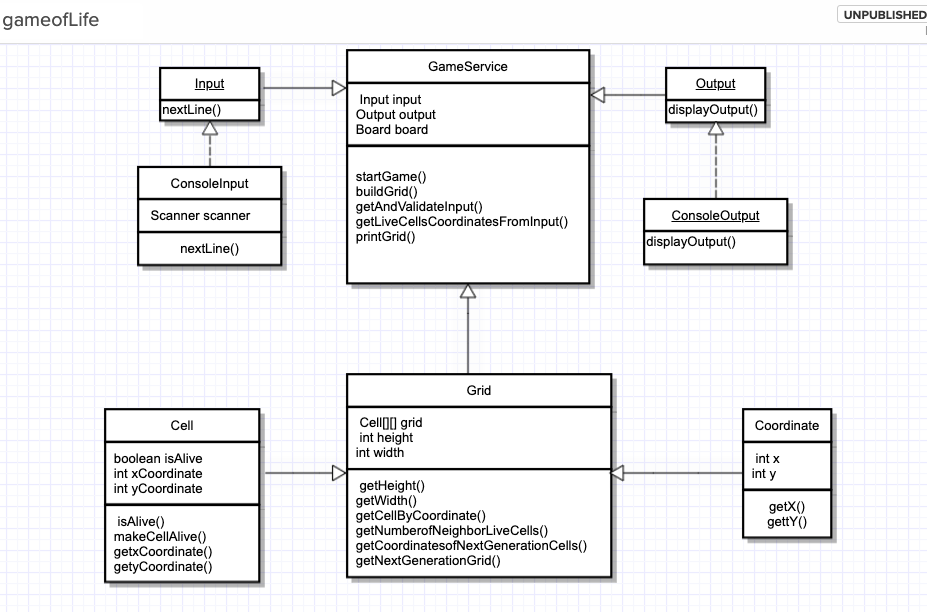
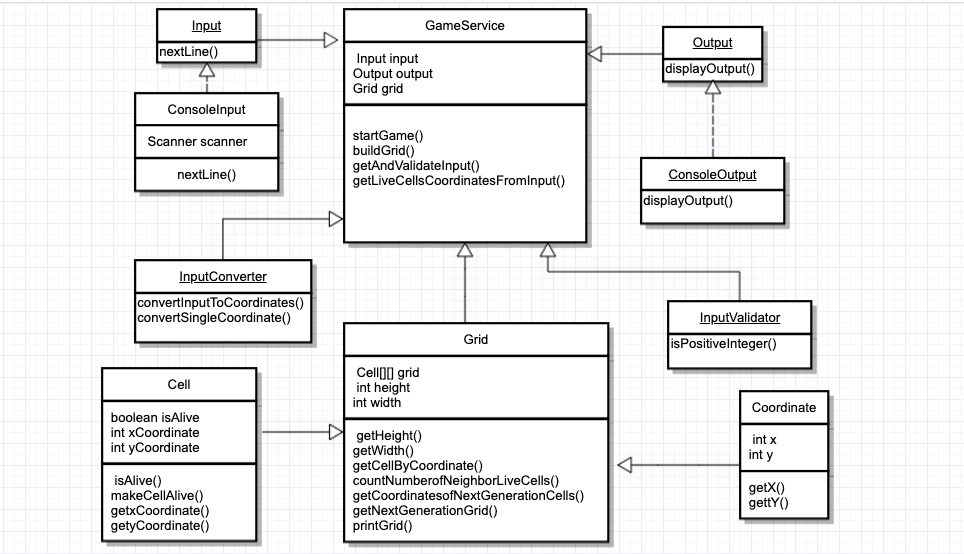
Refactor the solution

Changed region(s): [[0.0906, 0.0, 0.9061, 1.0], [0.0, 0.0, 0.1208, 0.0614], [0.9061, 0.0, 1.0, 0.0614]]

diff --git a/conways-gameoflife/src/main/java/utils/InputConverter.java b/conways-gameoflife/src/main/java/utils/InputConverter.java
@@ -5,16 +5,16 @@ import grid.Coordinate;
 import java.util.ArrayList;
 
 public class InputConverter {
-    public static ArrayList<Coordinate> parseInputToCoordinates(String inputCoordinatesString){
+    public static ArrayList<Coordinate> convertInputToCoordinates(String inputCoordinatesString){
         String[] splitAtDelimiter = inputCoordinatesString.split(" ");
         ArrayList<Coordinate> parsedCoordinates = new ArrayList<>();
         for(String coordinate : splitAtDelimiter){
-            parsedCoordinates.add(parseSingleCoordinate(coordinate));
+            parsedCoordinates.add(convertSingleCoordinate(coordinate));
         }
         return parsedCoordinates;
     }
 
-    private static Coordinate parseSingleCoordinate(String singleInputCoordinate){
+    private static Coordinate convertSingleCoordinate(String singleInputCoordinate){
         String[] splitSingleInputCoordinate = singleInputCoordinate.split(",");
         return new Coordinate(Integer.parseInt(splitSingleInputCoordinate[0]) -1, Integer.parseInt(splitSingleInputCoordinate[1]) -1);
     }

diff --git a/conways-gameoflife/src/test/java/grid/CellTest.java b/conways-gameoflife/src/test/java/grid/CellTest.java
@@ -1,0 +1,37 @@
+package grid;
+
+import org.junit.Test;
+
+import static org.junit.Assert.*;
+
+public class CellTest {
+    private Cell cell;
+
+    @Test
+    public void shouldReturnFalse_WhenQueryDeadCell() {
+        this.cell = new Cell(false);
+        assertFalse(this.cell.isAlive());
+    }
+
+    @Test
+    public void shouldReturnTrue_WhenQueryLiveCell() {
+        this.cell = new Cell(true);
+        assertTrue(this.cell.isAlive());
+    }
+
+    @Test
+    public void shouldReturnLiveCell_WhenMakingDeadCellAlive() {
+        this.cell = new Cell(false);
+
+        this.cell.makeCellAlive();
+
+        assertTrue(this.cell.isAlive());
+    }
+
+    @Test
+    public void shouldReturnTrue_WhenComparingEqualCells() {
+        this.cell = new Cell(true);
+        Cell secondLiveCell = new Cell(true);
+        assertEquals(this.cell, secondLiveCell);
+    }
+}

diff --git a/conways-gameoflife/src/test/java/utils/InputConverterTest.java b/conways-gameoflife/src/test/java/utils/InputConverterTest.java
@@ -3,7 +3,6 @@ package utils;
 import grid.Coordinate;
 import org.junit.Test;
 
-import java.lang.reflect.Array;
 import java.util.ArrayList;
 import java.util.Arrays;
 
@@ -16,6 +15,6 @@ public class InputConverterTest {
                 new Coordinate(1, 2),
                 new Coordinate(2,3)));
 
-        assertEquals(expectedCoordinates, InputConverter.parseInputToCoordinates("2,3 3,4"));
+        assertEquals(expectedCoordinates, InputConverter.convertInputToCoordinates("2,3 3,4"));
     }
 }

diff --git a/conways-gameoflife/src/main/java/services/GameService.java b/conways-gameoflife/src/main/java/services/GameService.java
@@ -54,7 +54,7 @@ public class GameService {
         String inputCoordinates = "";
             output.displayOutput("Please input your live cell(s) coordinates:");
             inputCoordinates = input.nextLine();
-        return InputConverter.parseInputToCoordinates(inputCoordinates);
+        return InputConverter.convertInputToCoordinates(inputCoordinates);
     }
 
     private int getNoOfGenerations(){

diff --git a/conways-gameoflife/src/main/java/grid/Cell.java b/conways-gameoflife/src/main/java/grid/Cell.java
@@ -11,6 +11,10 @@ public class Cell {
         this.isAlive = false;
     }
 
+    public Cell(boolean isAlive) {
+        this.isAlive = isAlive;
+    }
+
     @Override
     public boolean equals(Object o) {
         if (this == o) return true;

diff --git a/conways-gameoflife/README.md b/conways-gameoflife/README.md
@@ -1,9 +1,20 @@
-#Game of Life
+# Game of Life
 
-Game of Life Rules: 
+About this Kata
+The Game of Life, also known simply as Life, is a cellular automaton devised by the British mathematician John Horton Conway in 1970.
+The "game" is a zero-player game, meaning that its evolution is determined by its initial state, requiring no further input. One interacts with the Game of Life by creating an initial configuration and observing how it evolves.
+
+https://github.com/MYOB-Technology/General_Developer/tree/master/katas/kata-conways-game-of-life
+
+Rules: 
+
+1. Any live cell with fewer than two live neighbours dies, as if caused by underpopulation.
+2. Any live cell with more than three live neighbours dies, as if by overcrowding.
+3. Any live cell with two or three live neighbours lives on to the next generation.
+4. Any dead cell with exactly three live neighbours becomes a live cell.
 https://github.com/marcoemrich/game-of-life-rules/blob/master/gol_rules.pdf
 
-###DEMO
+### DEMO
 ````
                   Welcome to Conway's Game of Life!
                   How big would you like your grid:
